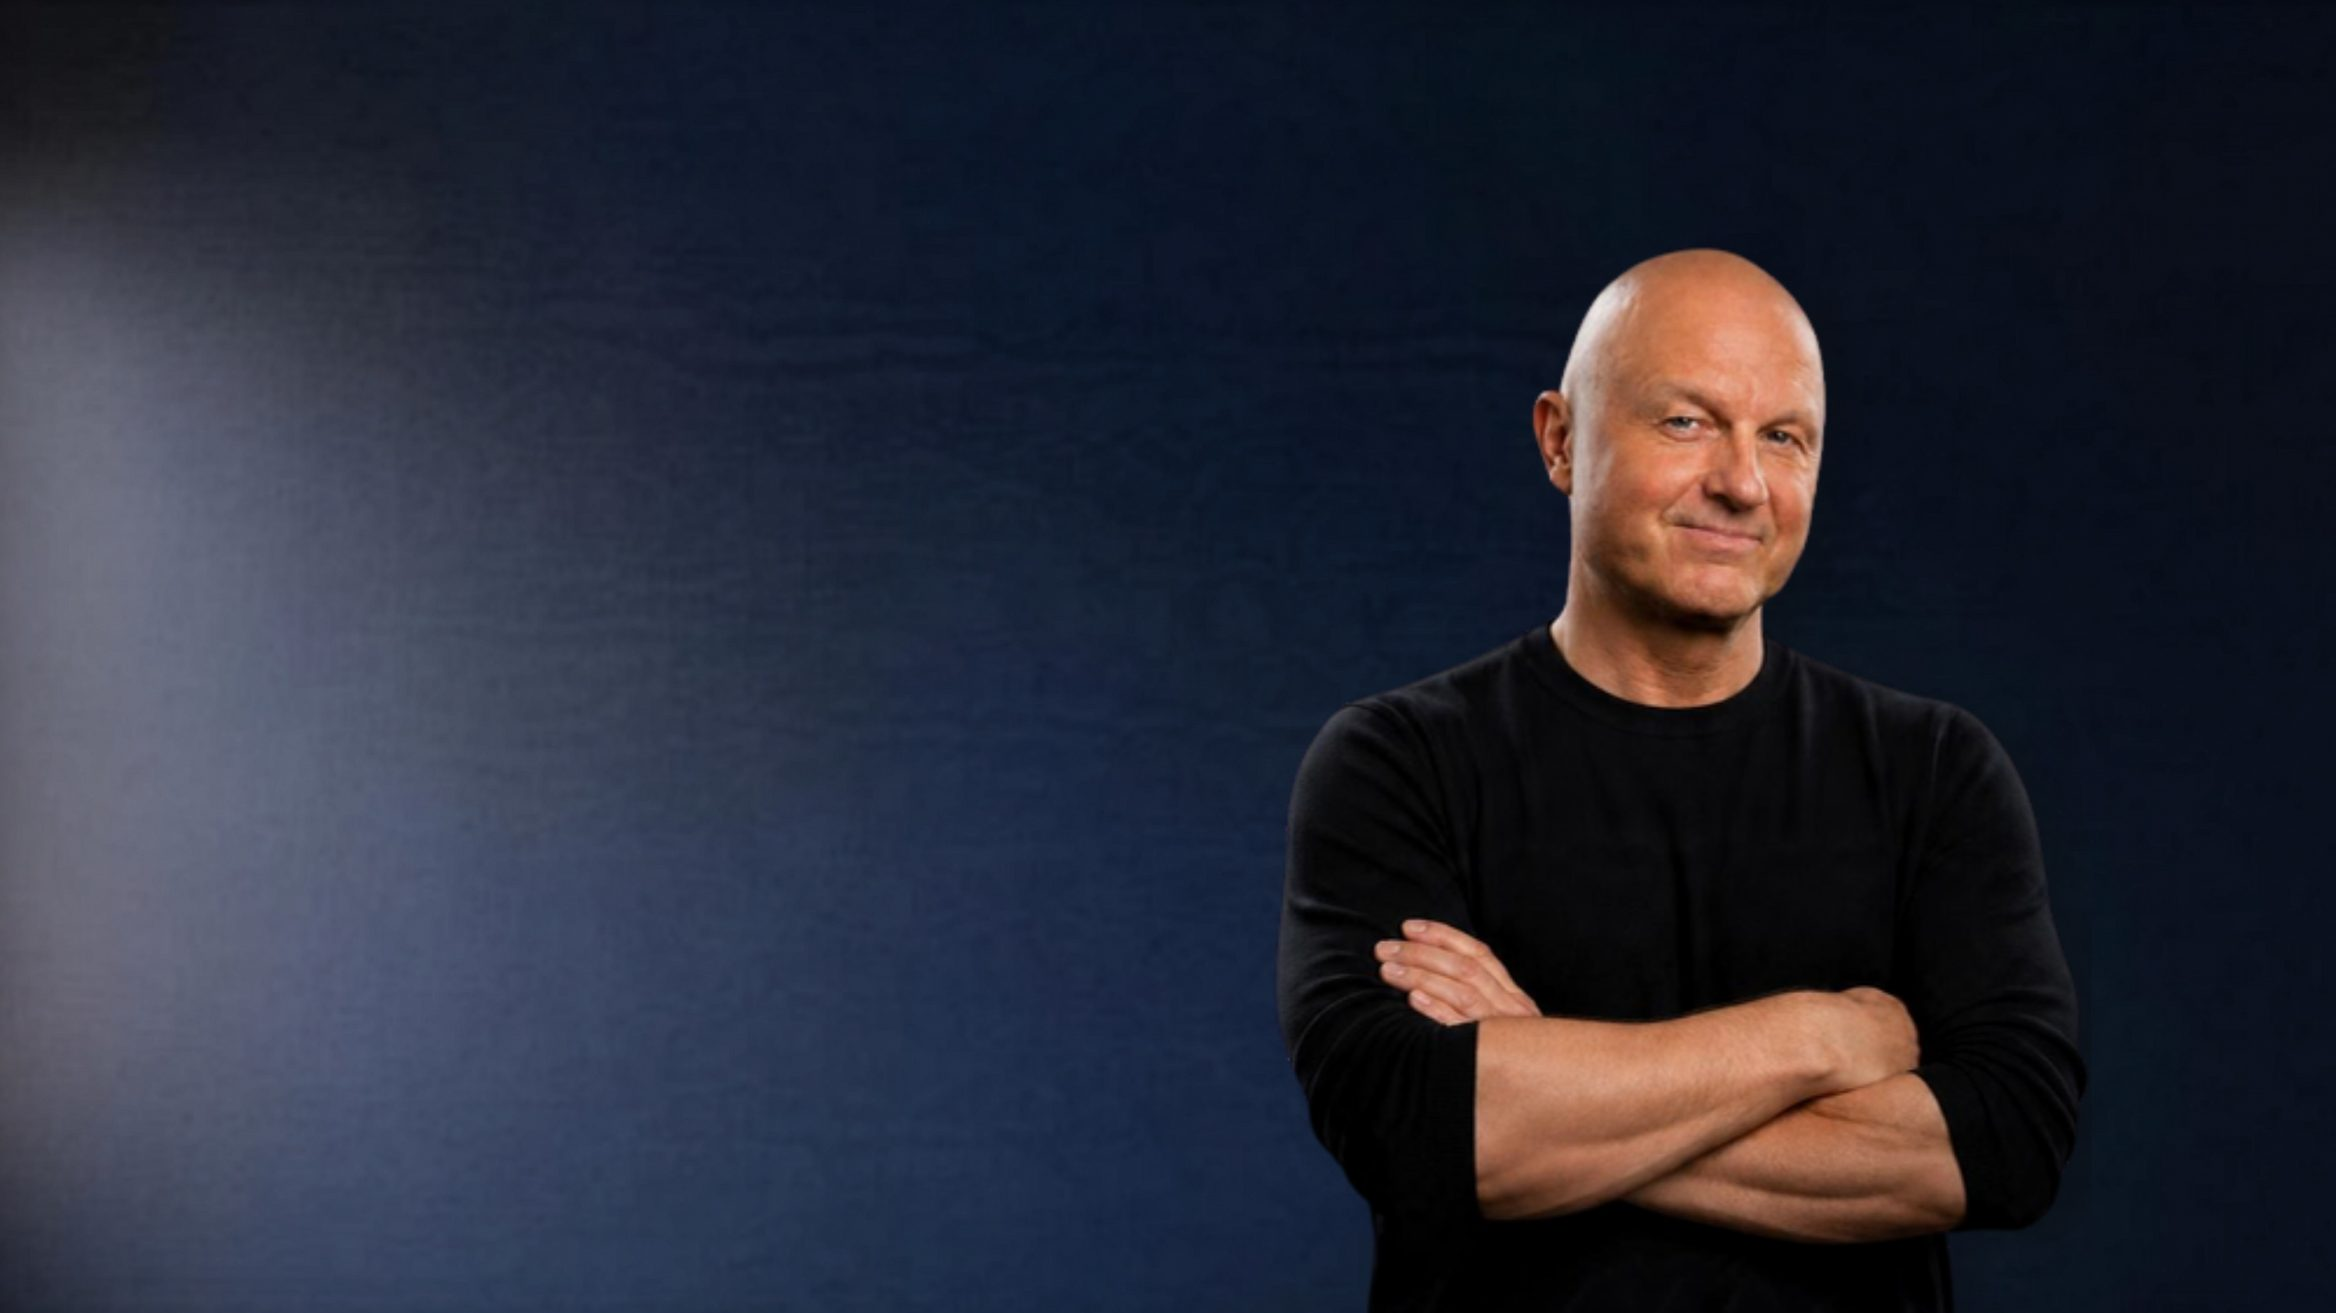
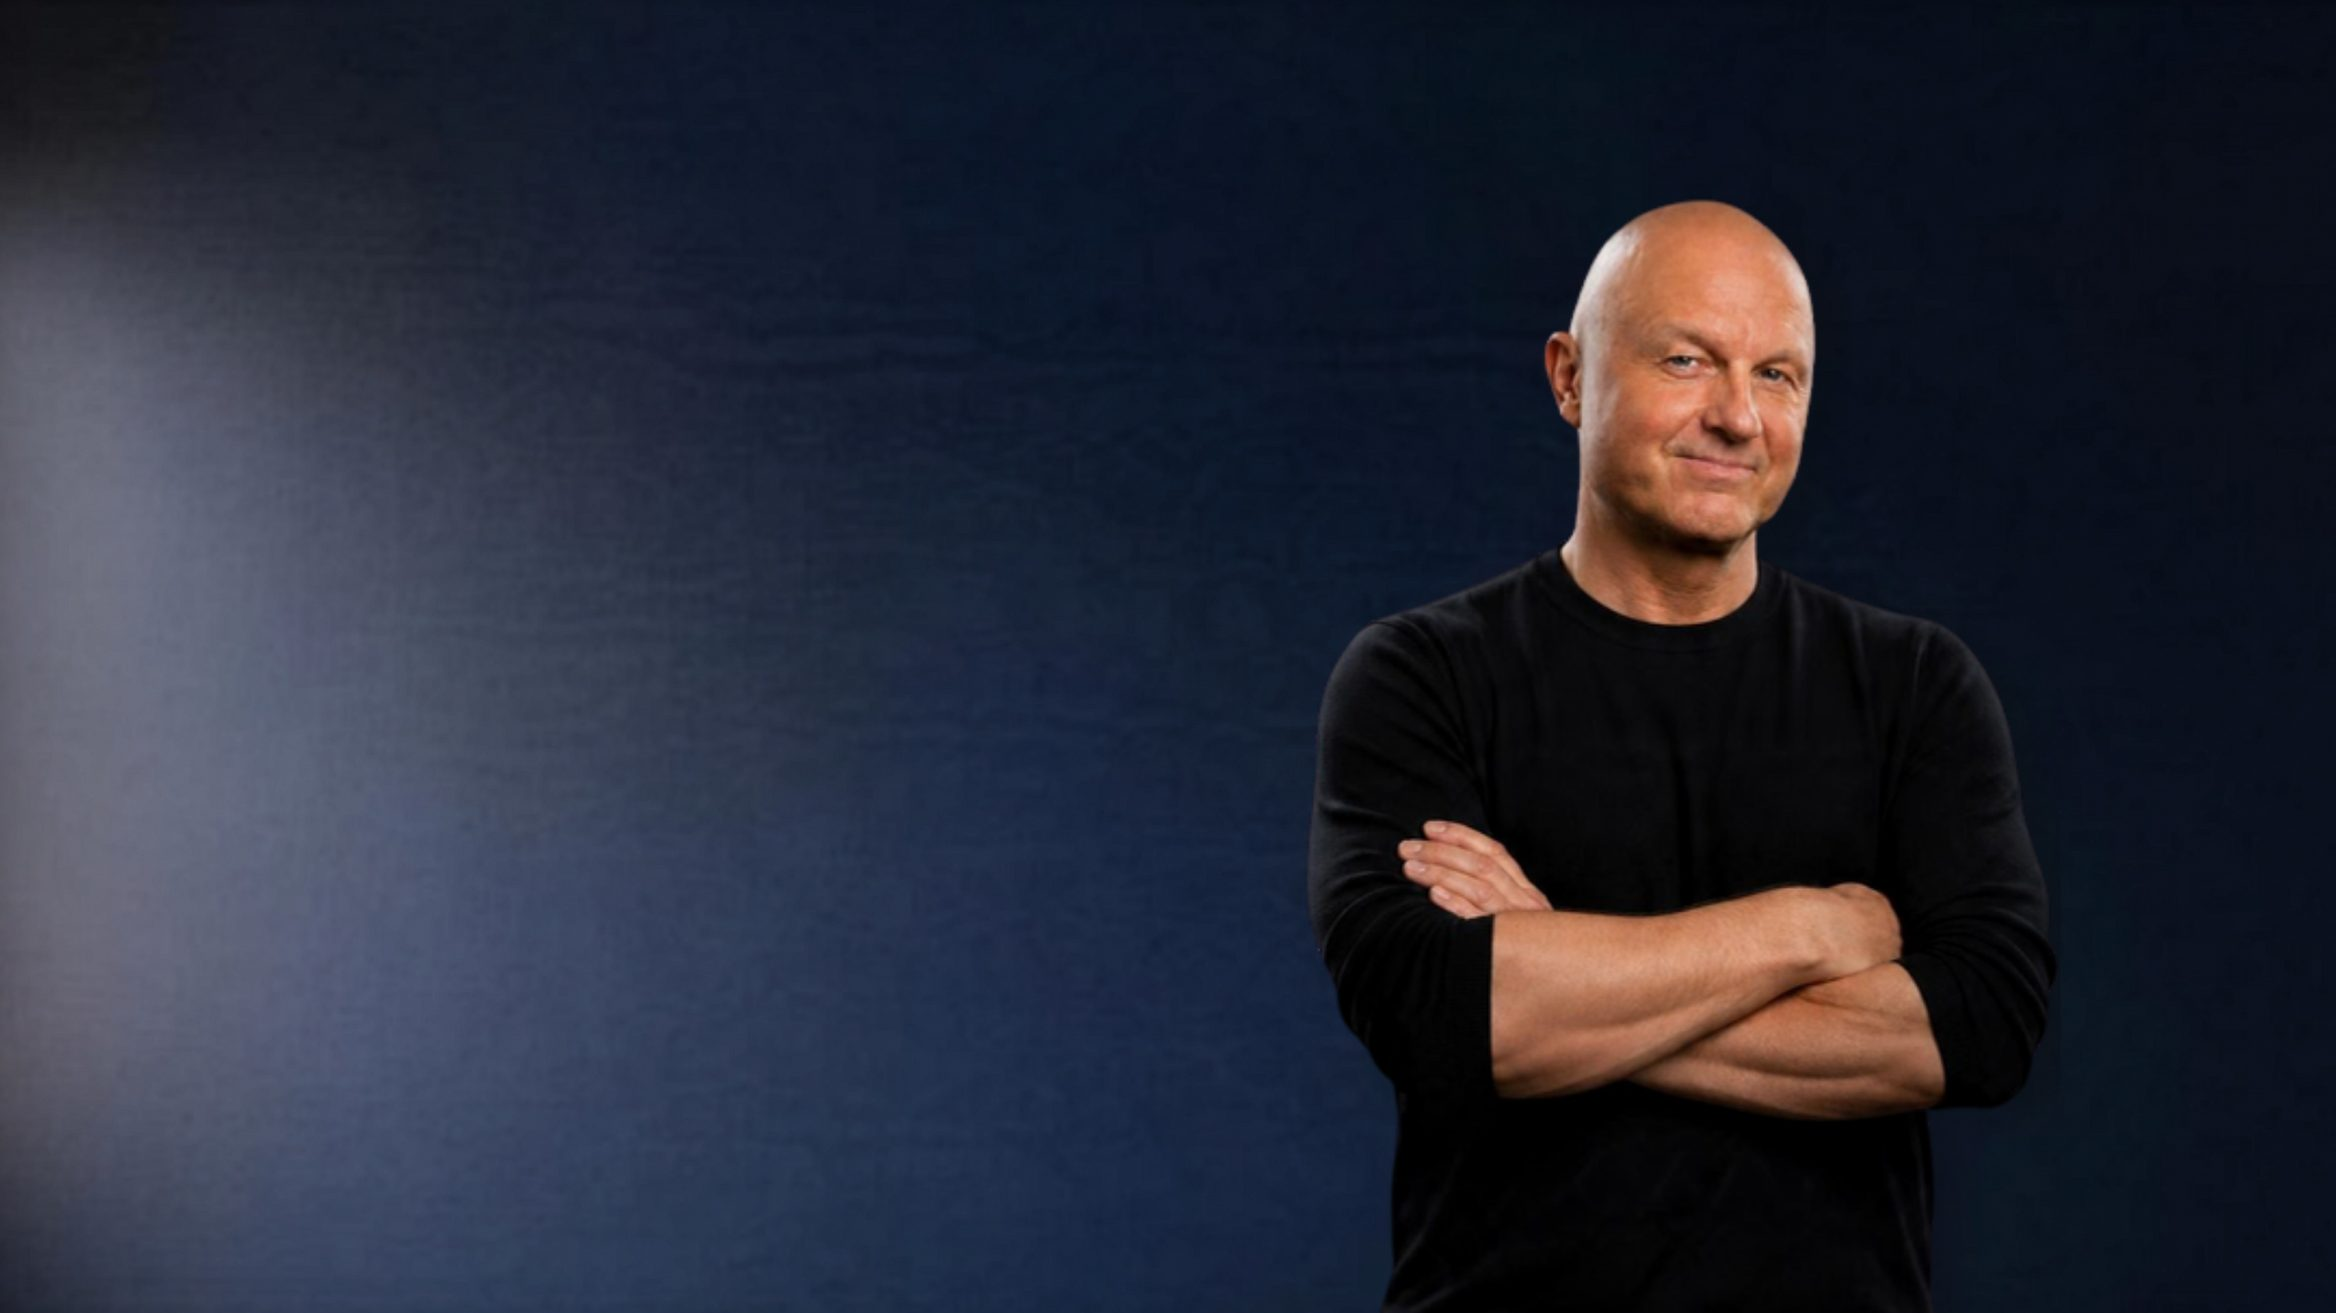
r050: hero photo H32: zoomed out further to match Richard's reference (head 15% from top, arms 69% of the window, sweater continues below the arms)

Changed region(s): [[0.5312, 0.5933, 0.9062, 1.0], [0.5625, 0.1561, 0.875, 0.5621]]

diff --git a/index.html b/index.html
@@ -217,9 +217,9 @@
                på 1440×900). Under 900 px ligger bildet øverst som et 1:1-utsnitt. */
             .masthead-card { grid-template-columns: minmax(0, 1fr) minmax(0, 1fr); min-height: 0; }
             .masthead-media { position: relative; }
-            /* Hero 2026-10-15 (H30 + kodet bildetekst): Richard foran marineblå vegg, zoomet ut til hoften og plassert
+            /* Hero 2026-10-15 (H32 + kodet bildetekst): Richard foran marineblå vegg, zoomet ut til hoften og plassert
                midt i vinduet. Desktop-vinduet (556×668) viser 47 % av bredden ved object-position 92 %: armene spenner
-               75 % av vinduet med lik luft på begge sider og hodet 16 % fra toppen. Mobil (1:1): 100 %. */
+               69 % av vinduet med lik luft på begge sider og hodet 15 % fra toppen. Mobil (1:1): 100 %. */
             .masthead-media img { position: absolute; inset: 0; width: 100%; height: 100%; object-fit: cover; object-position: 92% 40%; }
             @media (max-width: 900px) {
                 .masthead-card { grid-template-columns: minmax(0, 1fr); }
@@ -232,7 +232,7 @@
                Ordlyd etter Richards ønske: «Daglig leder (Richard)» i vanlig skrift, ikke versaler. Farger: «Daglig leder»
                i sidens teal-tekstfarge (#25757f, 5,3:1 på hvitt), «(Richard)» i brødtekstfargen; logoens egen blå (#3fc3d5)
                gir bare 2,1:1 som tekst og brukes ikke her. */
-            /* H30: Richard står midt i både desktop- og mobilvinduet (senter 2419 px i masteren mot vinduenes 2431/2416),
+            /* H32: Richard står midt i både desktop- og mobilvinduet (senter 2419 px i masteren mot vinduenes 2431/2416),
                så bildeteksten sentreres rett under kolonnen. */
             .masthead-caption { margin: var(--space-3) 0 0 50%; display: flex; justify-content: center; align-items: center; gap: 0.35em; font-size: 14px; font-weight: 600; letter-spacing: 0.02em; line-height: 1; white-space: nowrap; }
             .masthead-caption-name { color: var(--color-text-secondary); }
